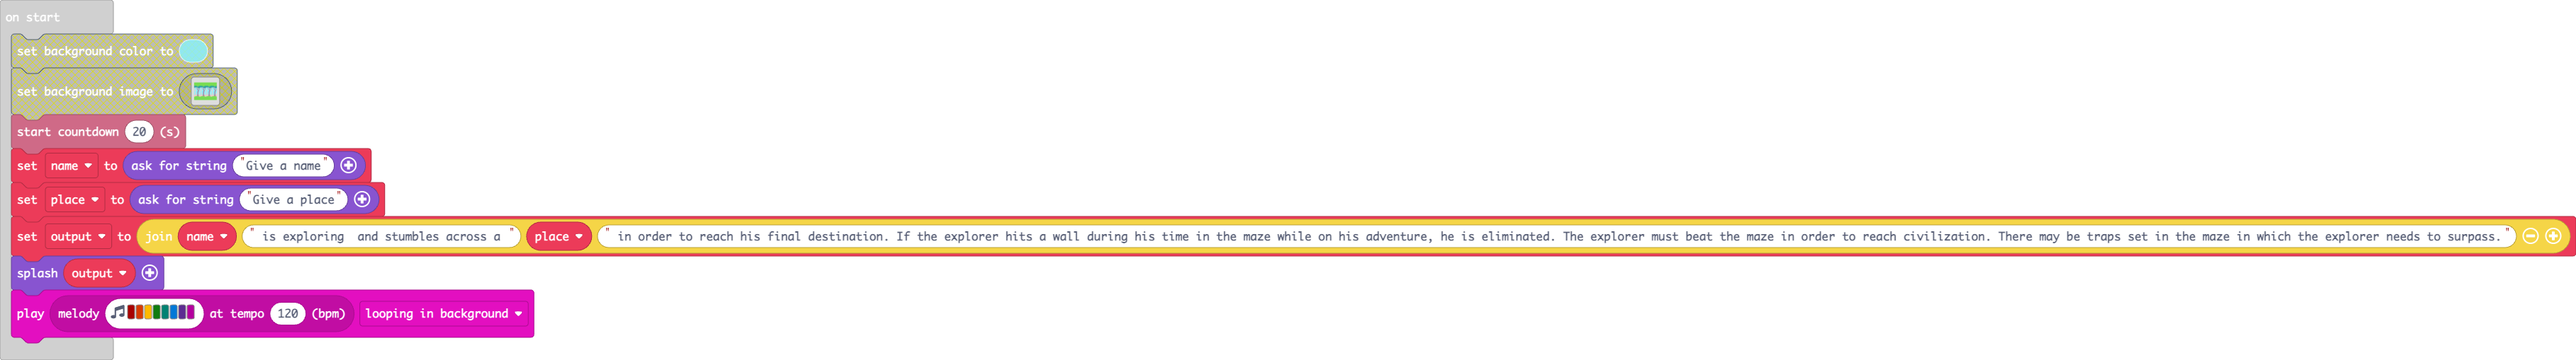
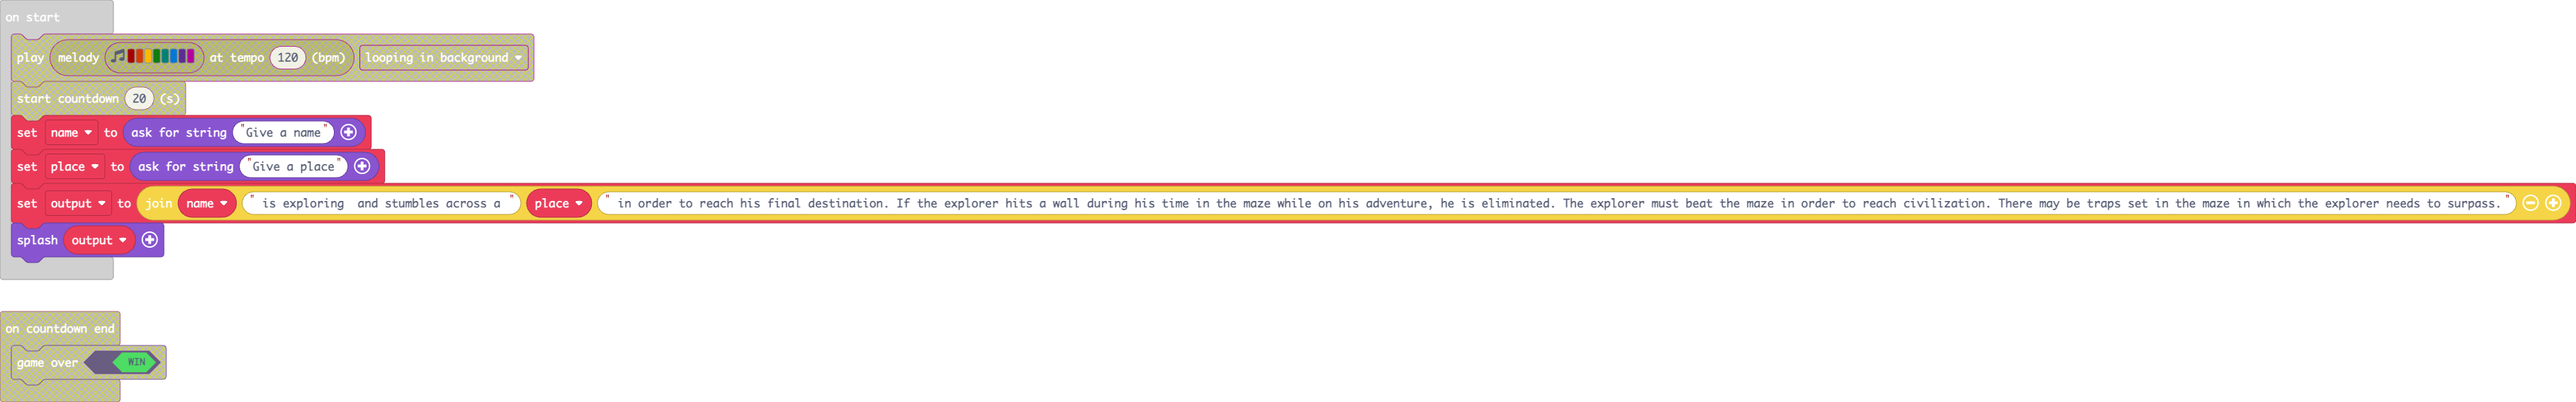
Update pxt.json, main.blocks, main.ts, main.py

Changed region(s): [[0.0, 0.0295, 1.0, 1.0]]

diff --git a/main.ts b/main.ts
@@ -1,8 +1,3 @@
-info.onCountdownEnd(function () {
-    game.gameOver(true)
-})
-music.play(music.stringPlayable("C5 B A G F E D C ", 120), music.PlaybackMode.LoopingInBackground)
-info.startCountdown(20)
 let name = game.askForString("Give a name")
 let place = game.askForString("Give a place")
 let output = "" + name + " is exploring  and stumbles across a " + place + " in order to reach his final destination. If the explorer hits a wall during his time in the maze while on his adventure, he is eliminated. The explorer must beat the maze in order to reach civilization. There may be traps set in the maze in which the explorer needs to surpass."

diff --git a/main.py b/main.py
@@ -1,26 +1,6 @@
-Explorer = sprites.create(img("""
-    . . . . . . . . . . . . . . . .
-    . . . . . f f f f f f . . . . .
-    . . . f f e e e e f 2 f . . . .
-    . . f f e e e e f 2 2 2 f . . .
-    . . f e e e f f e e e e f . . .
-    . . f f f f e e 2 2 2 2 e f . .
-    . . f e 2 2 2 f f f f e 2 f . .
-    . f f f f f f f e e e f f f . .
-    . f f e 4 4 e b f 4 4 e e f . .
-    . f e e 4 d 4 1 f d d e f . . .
-    . . f e e e e e d d d f . . . .
-    . . . . f 4 d d e 4 e f . . . .
-    . . . . f e d d e 2 2 f . . . .
-    . . . f f f e e f 5 5 f f . . .
-    . . . f f f f f f f f f f . . .
-    . . . . f f . . . f f f . . . .
-"""), SpriteKind.player)
-
 name = game.ask_for_string("Give a name")
 place = game.ask_for_string("Give a place")
 
-scene.background_image()
+output = "" + name + " is exploring  and stumbles across a " + place + " in order to reach his final destination. If the explorer hits a wall during his time in the maze while on his adventure, he is eliminated. The explorer must beat the maze in order to reach civilization. There may be traps set in the maze in which the explorer needs to surpass."
 
-output = name + " is exploring  and stumbles across a " + place + " in order to reach his final destination. If the explorer hits a wall during his time in the maze while on his adventure, he is eliminated. The explorer must beat the maze in order to reach civilization. There may be traps set in the maze in which the explorer needs to surpass."
 game.splash(output)
